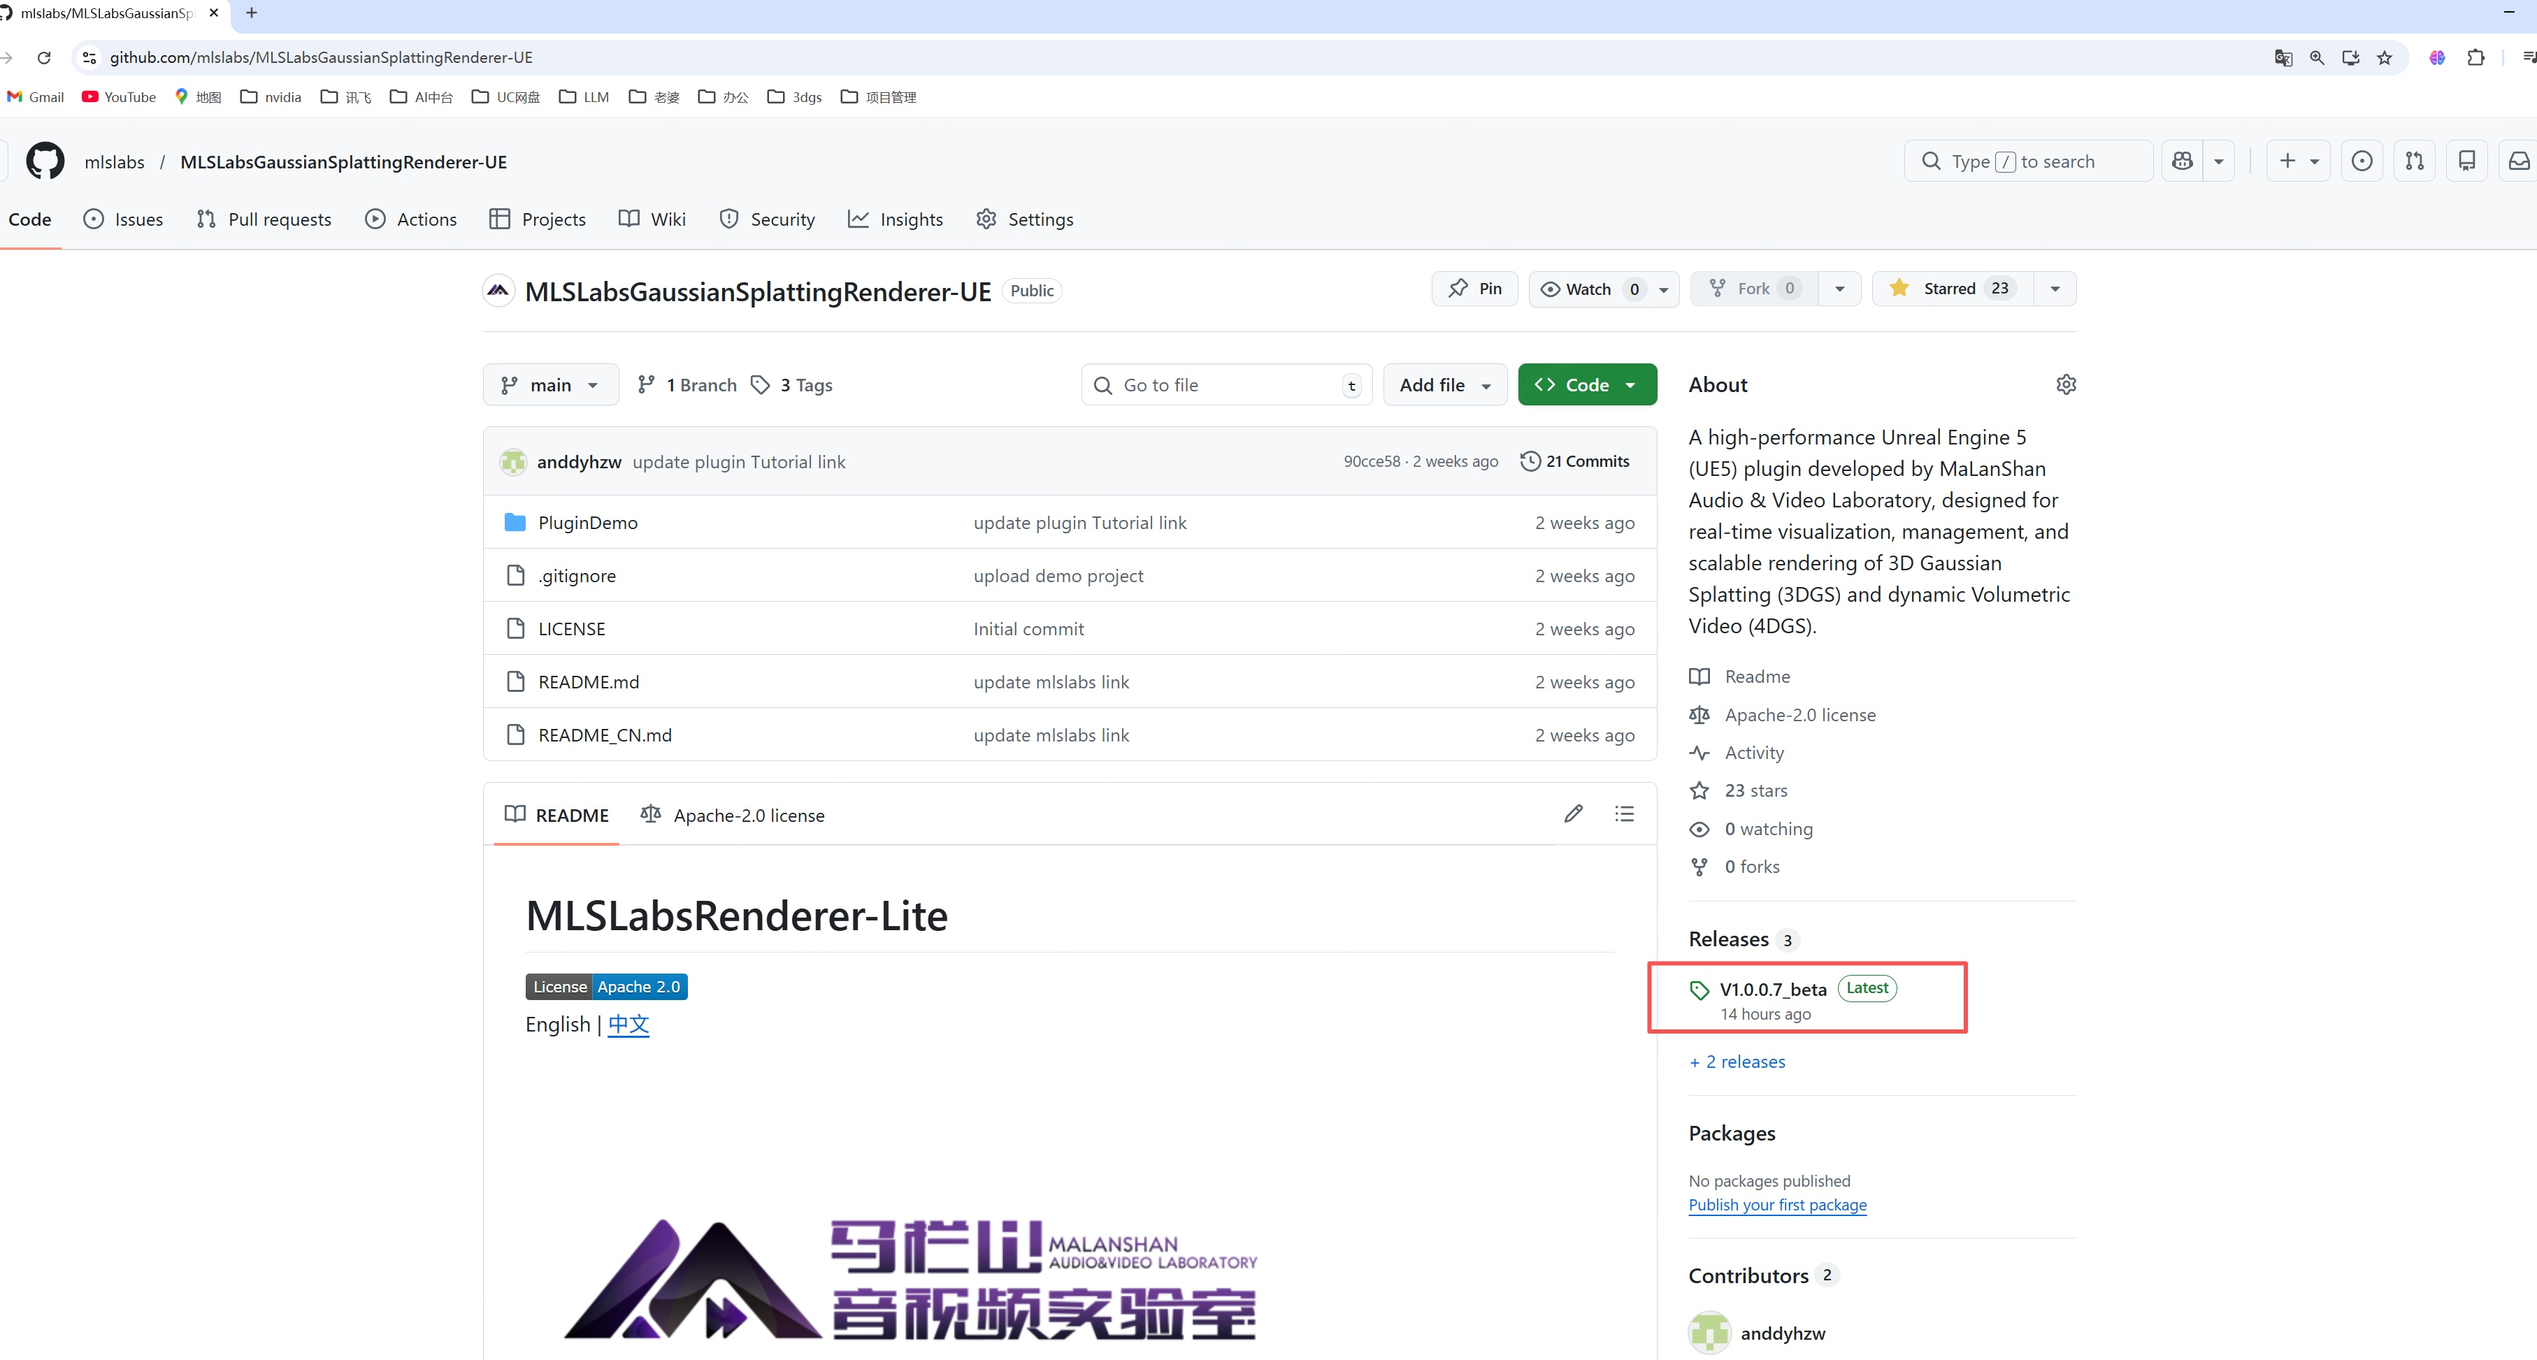
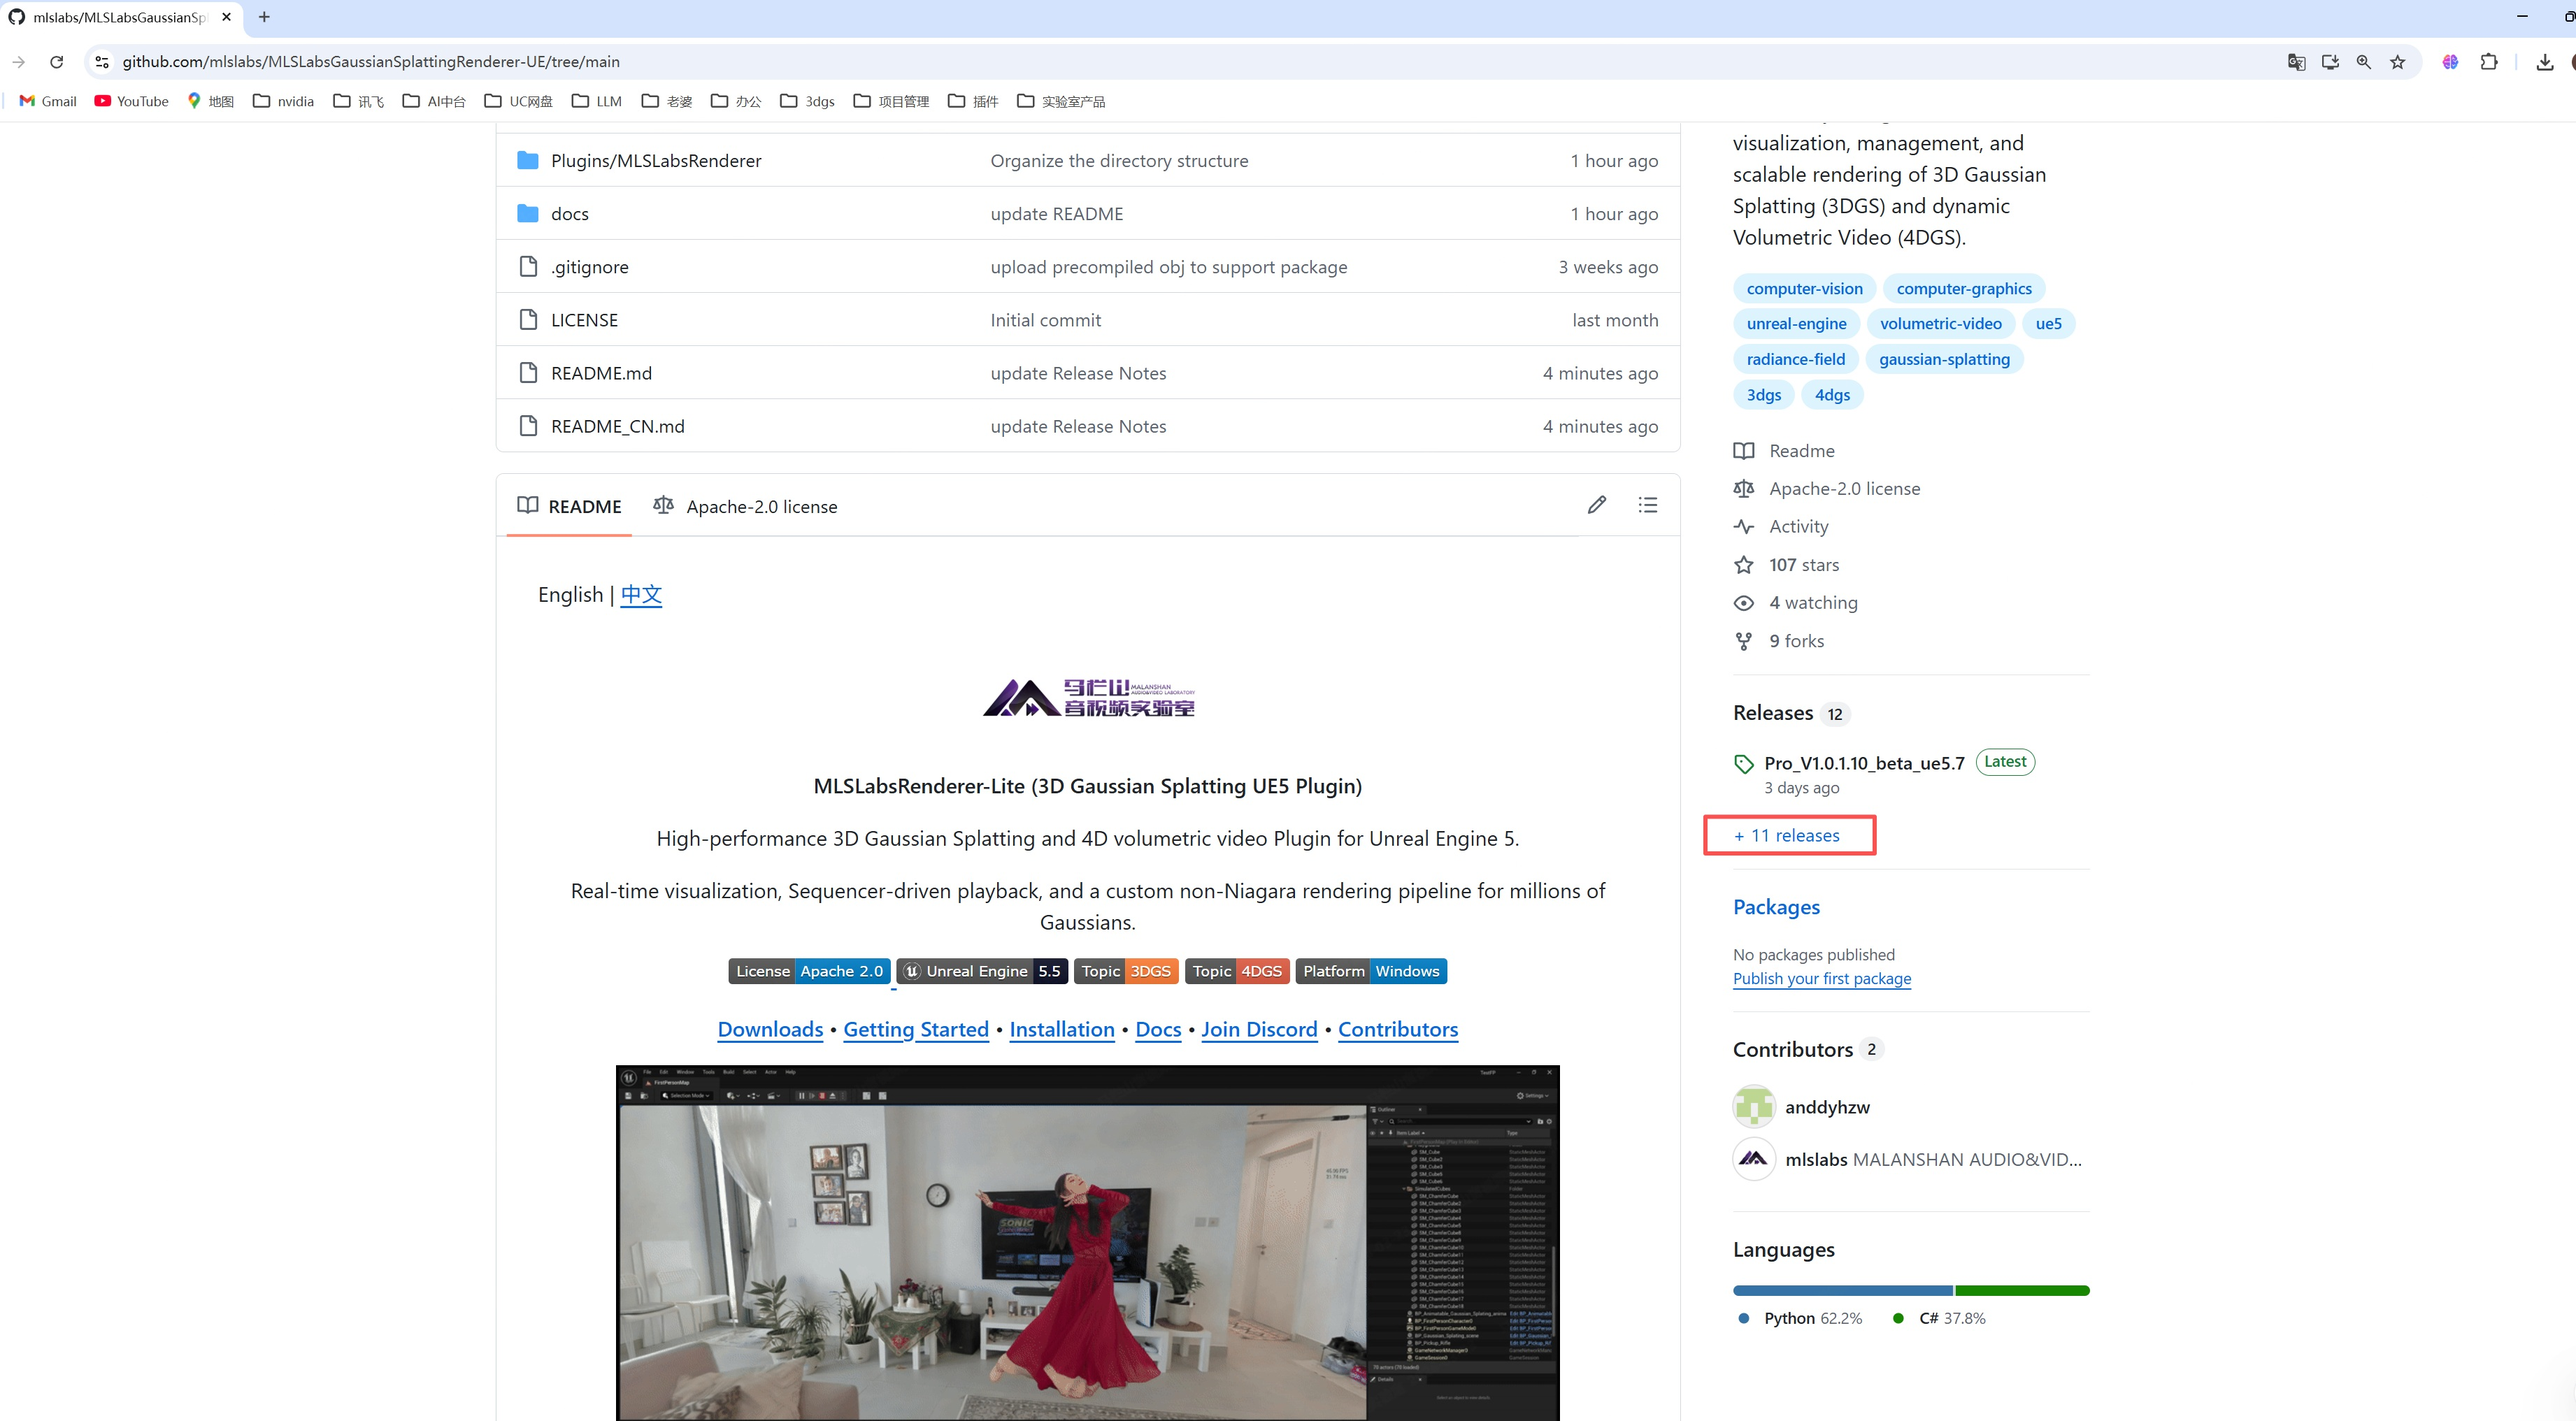
update user guid

diff --git a/docs/README.md b/docs/README.md
@@ -50,7 +50,7 @@ B站（中文）：
 
   <img src="../Media/image/github_release.jpg" width="500" />
 
-  2. Choose the latest version.
+  2. Select the appropriate plugin version according to the engine version..
   <img src="../Media/image/github_release_latest.jpg" width="500" />
   
   3. Download the zip file.
@@ -62,9 +62,17 @@ B站（中文）：
 
   <img src="../Media/image/unzip.jpg" width="500" />
   
-  Alternatively, unzip it directly into your project's `Plugins\` folder.
+  If there is no Marketplace directory, please create a new one.
+  
+  <img src="../Media/image/marketplace.jpg" width="500" />
+  
+  Alternatively, unzip it directly into your project's `Plugins\` folder. 
+  
+  <font color="red">Attention, To ensure successful project packaging, unzip the MLSLabsRenderer folder to your UE5.5 Engine directory </font>
   
   <img src="../Media/image/after_unzip.jpg" width="500" />
+  
+  <font color="red">This plugin conflicts with the Jawset Postshot UE5 plugin. Please back up the Jawset Postshot plugin to a directory outside the Plugins folder or to the Plugins\Marketplace directory.</font>
   
   5. Open Unreal Editor，enable the MLSLabsRenderer Plugin, and restart editor.
 

diff --git a/docs/README_CN.md b/docs/README_CN.md
@@ -51,7 +51,7 @@ B站（中文）：
 
   <img src="../Media/image/github_release.jpg" width="500" />
 
-  2. 下载最新版本。
+  2. 根据引擎版本选择合适的插件版本。
   
   <img src="../Media/image/github_release_latest.jpg" width="500" />
   
@@ -64,9 +64,17 @@ B站（中文）：
 
   <img src="../Media/image/unzip.jpg" width="500" />
   
+  如果没有Marketplace目录，请新建一个。
+  
+  <img src="../Media/image/marketplace.jpg" width="500" />
+  
   或者，直接解压到你项目根目录的`Plugins\`文件夹中。
   
+  <font color="red">为确保项目顺利打包，请将 `MLSLabsRenderer` 文件夹解压到 UE5.5 引擎安装目录中</font>
+  
   <img src="../Media/image/after_unzip.jpg" width="500" />
+  
+  <font color="red">本插件与Jawset Postshot UE5插件冲突，请将Jawset Postshot插件备份到非Plugins或者Plugins\Marketplace目录。</font>
   
   5. 打开虚幻编辑器，启用MLSLabsRenderer 插件，并重启编辑器。
 

diff --git a/README_CN.md b/README_CN.md
@@ -121,10 +121,9 @@ cd MLSLabsGaussianSplattingRenderer-UE
 
 ### 3. 安装步骤
 
-1. 从 `./Plugins/download.txt` 中指定的链接下载 `MLSLabsRenderer` 插件。
-2. 将 `Plugins/MLSLabsRenderer` 文件夹复制到你项目的 `Plugins/` 目录下。
-3. **关于项目打包：** 为确保项目顺利打包，请将 `MLSLabsRenderer` 文件夹复制到 UE5.5 引擎安装目录中（例如：`Epic Games\UE_5.5\Engine\Plugins\Marketplace`）。
-4. 在虚幻引擎编辑器的“插件浏览器”中启用 **MLSLabsRenderer**。
+1. 将 `Plugins/MLSLabsRenderer` 文件夹复制到你项目的 `Plugins/` 目录下。
+2. **关于项目打包：** 为确保项目顺利打包，请将 `MLSLabsRenderer` 文件夹复制到 UE5.5 引擎安装目录中（例如：`Epic Games\UE_5.5\Engine\Plugins\Marketplace`）。
+3. 在虚幻引擎编辑器的“插件浏览器”中启用 **MLSLabsRenderer**。
 
 ---
 

diff --git a/README.md b/README.md
@@ -122,8 +122,6 @@ cd MLSLabsGaussianSplattingRenderer-UE
 
 ### 3. Installation
 
-Download the MLSLabsRenderer plugin from the link specified in ./Plugins/download.txt.
-
 Copy the Plugins/MLSLabsRenderer folder to your project's Plugins/ directory.
 
 For Packaging: To ensure successful project packaging, copy the MLSLabsRenderer folder to your UE5.5 Engine directory (e.g., Epic Games\UE_5.5\Engine\Plugins\Marketplace).
